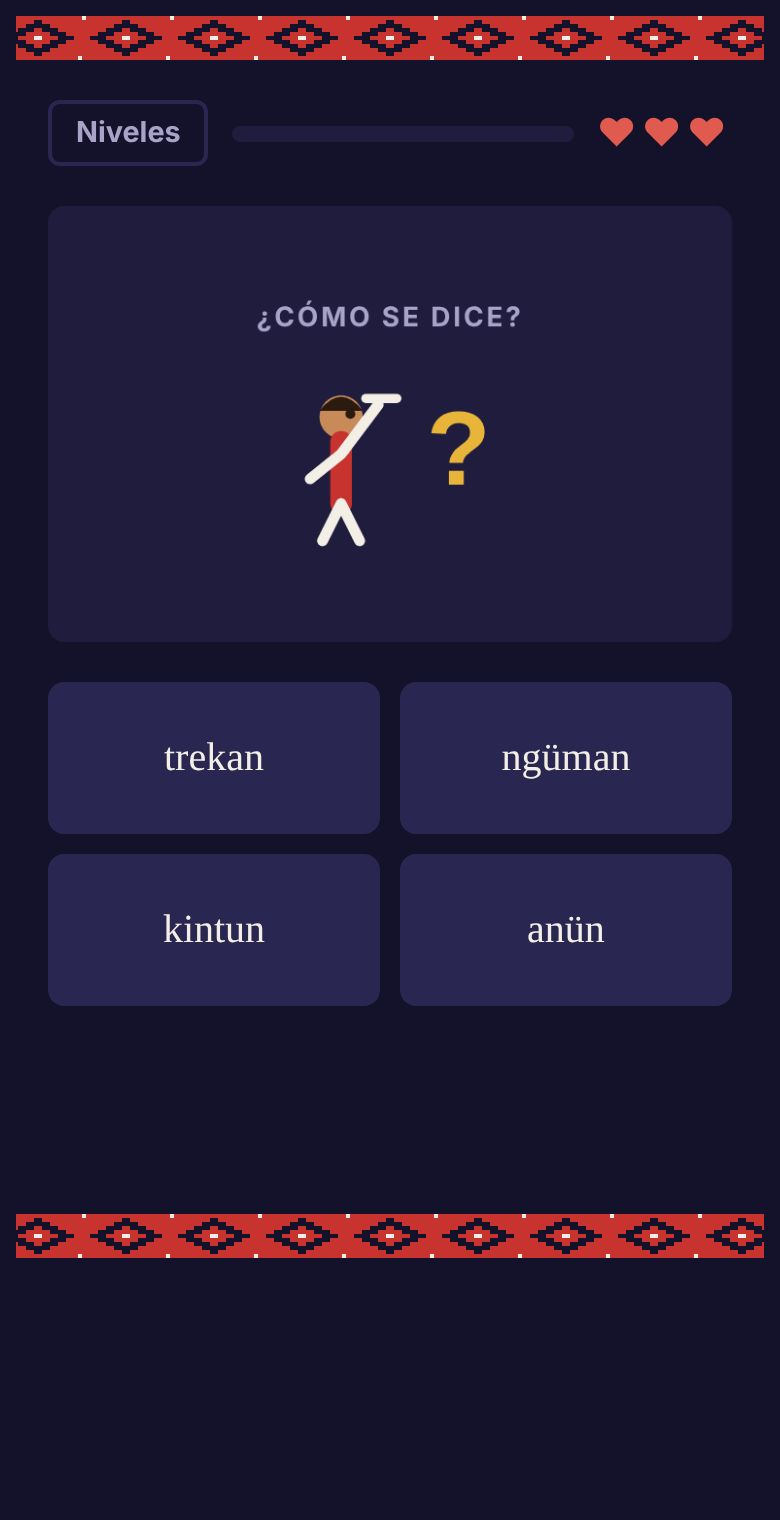
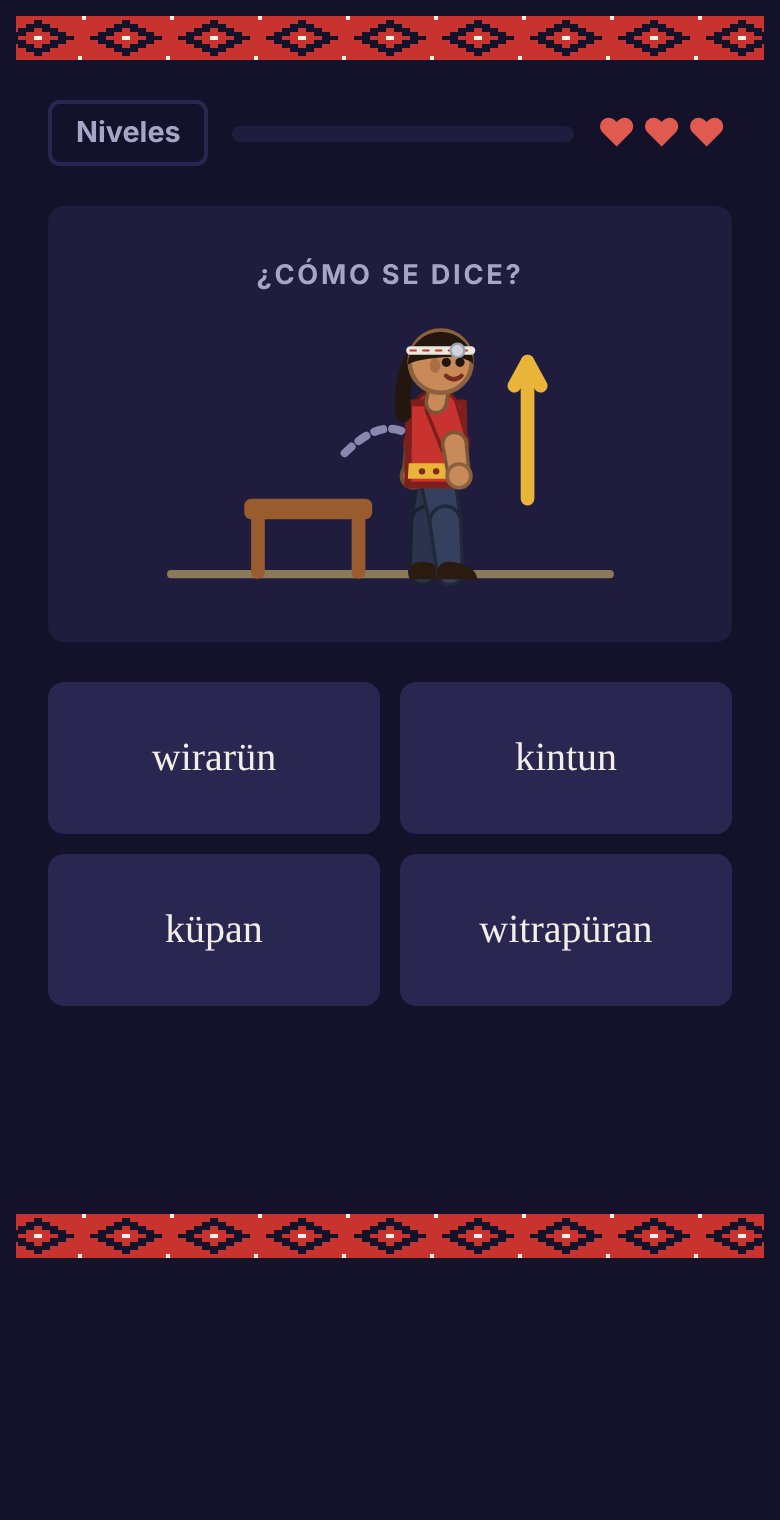
Juego: Pu ad, Pu ad II, Pu ad III como títulos; capturas de la página «Acerca» con los dibujos nuevos
Claude-Session: https://claude.ai/code/session_01HTUZe6aDQBq8P38J9CFNUk

diff --git a/index.html b/index.html
@@ -1591,7 +1591,7 @@ const STAGES = [
     {m:"yu",pic:{svg:KAL.yu},es:"nariz",en:"nose"},{m:"wün",pic:{svg:KAL.wun},es:"boca",en:"mouth"},
     {m:"kug",pic:{svg:KAL.kug},es:"mano",en:"hand"},{m:"namun",pic:{svg:KAL.namun},es:"pie",en:"foot"},
     {m:"foro",pic:{svg:KAL.foro},es:"diente, hueso",en:"tooth, bone"}]},
-  { id:"color", mt:"", es:"Colores", en:"Colors", kind:"color", words:[
+  { id:"color", mt:"Pu ad", es:"Colores", en:"Colors", kind:"color", words:[
     {m:"kelü",pic:{c:"#c8322f"},es:"rojo",en:"red",hint:{es:"{kelü|e}: rojo como una c<b>e</b>r<b>e</b>za.",en:"{kelü|e}: red like a ch<b>e</b>rry."}},{m:"kallfü",pic:{c:"#2f5fd0"},es:"azul",en:"blue",hint:{es:"{kallfü}: azul, como el cielo.",en:"{kallfü}: blue, like the sky."}},
     {m:"chod",pic:{c:"#e8c21f"},es:"amarillo",en:"yellow",hint:{es:"{chod}: amarillo; {chodkuram} es la yema del huevo.",en:"{chod}: yellow; {chodkuram} is the egg yolk."}},{m:"lig",pic:{c:"#f6f4ee"},es:"blanco",en:"white",hint:{es:"{lig}: blanco; también “claro”: {lig karü}, verde claro.",en:"{lig}: white; it also means “light”: {lig karü}, light green."}},
     {m:"kurü",pic:{c:"#111111"},es:"negro",en:"black",hint:{es:"{kurü|u}: negro, osc<b>u</b>ro. También “oscuro” con otros colores: {kurü kelü}, rojo oscuro.",en:"{kurü|u}: black, like s<b>oo</b>t. It also means “dark” with other colours: {kurü kelü}, dark red."}}]},
@@ -1604,7 +1604,7 @@ const STAGES = [
     {m:"kuku", es:"abuela paterna", en:"father's mother"},
     {m:"cheche", es:"abuelo materno", en:"mother's father"},
     {m:"laku", es:"abuelo paterno", en:"father's father"}]},
-  { id:"colork", mt:"", es:"Colores II", en:"Colors II", kind:"color",
+  { id:"colork", mt:"Pu ad II", es:"Colores II", en:"Colors II", kind:"color",
     rule:{es:"Cuatro colores se parecen mucho: <b>k_lü</b> y <b>k_rü</b>. Fíjate en la primera vocal y en un objeto con esa vocal: {kelü|e} = c<b>e</b>r<b>e</b>za (rojo), {kurü|u} = osc<b>u</b>ro (negro), {karü|a} = p<b>a</b>sto (verde), {kolü|o} = ch<b>o</b>c<b>o</b>late (café).",
           en:"Four colours look a lot alike: <b>k_lü</b> and <b>k_rü</b>. Watch the first vowel and link it to a thing with that vowel: {kelü|e} = ch<b>e</b>rry (red), {kurü|u} = s<b>oo</b>t (black), {karü|a} = gr<b>a</b>ss (green), {kolü|o} = c<b>o</b>coa (brown)."}, words:[
     {m:"karü",pic:{c:"#2f9a4f"},es:"verde",en:"green",hint:{es:"{karü|a}: verde como el p<b>a</b>sto. También “crudo, no maduro”: lo verde aún no está listo.",en:"{karü|a}: green like gr<b>a</b>ss. It also means “raw, unripe”: green things aren’t ready yet."}},{m:"kolü",pic:{c:"#8a4b2a"},es:"café",en:"brown",hint:{es:"{kolü|o}: café como el ch<b>o</b>c<b>o</b>late o la tierra.",en:"{kolü|o}: brown like c<b>o</b>coa or soil."}},
@@ -1701,7 +1701,7 @@ const STAGES = [
     {m:"Temuko tuwün", es:"Soy de Temuco", en:"I'm from Temuco"},
     {m:"Mari mari kom pu che", es:"Hola a todos", en:"Hello, everyone"},
     {m:"Pewkallal", es:"Hasta luego", en:"See you later"}]},
-  { id:"color2", mt:"", es:"Colores III: el color y la cosa", en:"Colors III: colour and thing", kind:"pic",
+  { id:"color2", mt:"Pu ad III", es:"Colores III: el color y la cosa", en:"Colors III: colour and thing", kind:"pic",
     rule:{es:"El color va antes del sustantivo: <b>kelü mansana</b> “manzana roja”, <b>kurü ufisa</b> “oveja negra”.",
           en:"The colour goes before the noun: <b>kelü mansana</b> “red apple”, <b>kurü ufisa</b> “black sheep”."}, words:[
     {m:"kelü mansana",pic:{svg:ACT2.cn("apple","#c8322f")},es:"manzana roja",en:"red apple"},

diff --git a/acerca/index.html b/acerca/index.html
@@ -11,7 +11,7 @@
 <meta property="og:image" content="https://brogers36.github.io/Mapudungukeain/acerca/img/menu.jpg">
 <title>Mapudungukeaiñ Fill Püle</title>
 <meta name="claude:viewport-fit-sides" content="cover">
-<meta name="description" content="Un juego gratuito para aprender mapudungun: 65 niveles, lecturas, epew, pronunciación con diagramas, y funciona sin conexión.">
+<meta name="description" content="Un juego gratuito para aprender mapudungun: 66 niveles, lecturas, epew, pronunciación con diagramas, y funciona sin conexión.">
 <link rel="preconnect" href="https://fonts.googleapis.com">
 <link rel="stylesheet" href="https://fonts.googleapis.com/css2?family=Alfa+Slab+One&family=Atkinson+Hyperlegible:ital,wght@0,400;0,700;1,400&display=swap">
 <style>
@@ -137,7 +137,7 @@ footer{padding-block:28px 40px;color:var(--muted);font-size:.9rem;display:flex;f
         <a class="btn ghost" href="../diccionario/acerca/"><span class="es">El diccionario</span><span class="en">The dictionary</span></a>
       </div>
       <div class="facts" aria-label="En cifras">
-        <span><b>65</b><span class="es">niveles</span><span class="en">levels</span></span>
+        <span><b>66</b><span class="es">niveles</span><span class="en">levels</span></span>
         <span><b>7</b><span class="es">etapas</span><span class="en">stages</span></span>
         <span><b>230</b><span class="es">palabras y frases</span><span class="en">words and phrases</span></span>
         <span><b>14</b><span class="es">lecturas</span><span class="en">readings</span></span>
@@ -156,7 +156,7 @@ footer{padding-block:28px 40px;color:var(--muted);font-size:.9rem;display:flex;f
     <h2 id="h-trae"><span class="es">Aprender jugando, con cuidado por la lengua</span><span class="en">Learning by playing, with care for the language</span></h2>
 
     <div class="path" aria-label="Etapas">
-      <div class="stage"><b>Principiante</b><span class="es">9 niveles</span><span class="en">9 levels</span></div>
+      <div class="stage"><b>Principiante</b><span class="es">10 niveles</span><span class="en">10 levels</span></div>
       <div class="stage"><b>Básico</b><span class="es">6 niveles</span><span class="en">6 levels</span></div>
       <div class="stage"><b>Intermedio</b><span class="es">9 niveles</span><span class="en">9 levels</span></div>
       <div class="stage"><b>Intermedio II</b><span class="es">10 niveles</span><span class="en">10 levels</span></div>

diff --git a/sw.js b/sw.js
@@ -2,7 +2,7 @@
    The game page is fetched from the network first, so updates arrive as soon as there is a connection,
    and served from the cache when offline. Icons and Google Fonts are served from the cache.
    Only caches named mapudungukeain-* are managed here; the dictionary keeps its own (nemulkawe-*). */
-const CACHE = 'mapudungukeain-v20261108154816';
+const CACHE = 'mapudungukeain-v20261108155552';
 const CORE = ['./', './index.html', './manifest.webmanifest', './icon-192.png', './icon-512.png', './apple-touch-icon.png'];
 self.addEventListener('install', e => {
   e.waitUntil(caches.open(CACHE).then(c => c.addAll(CORE)).then(() => self.skipWaiting()));
